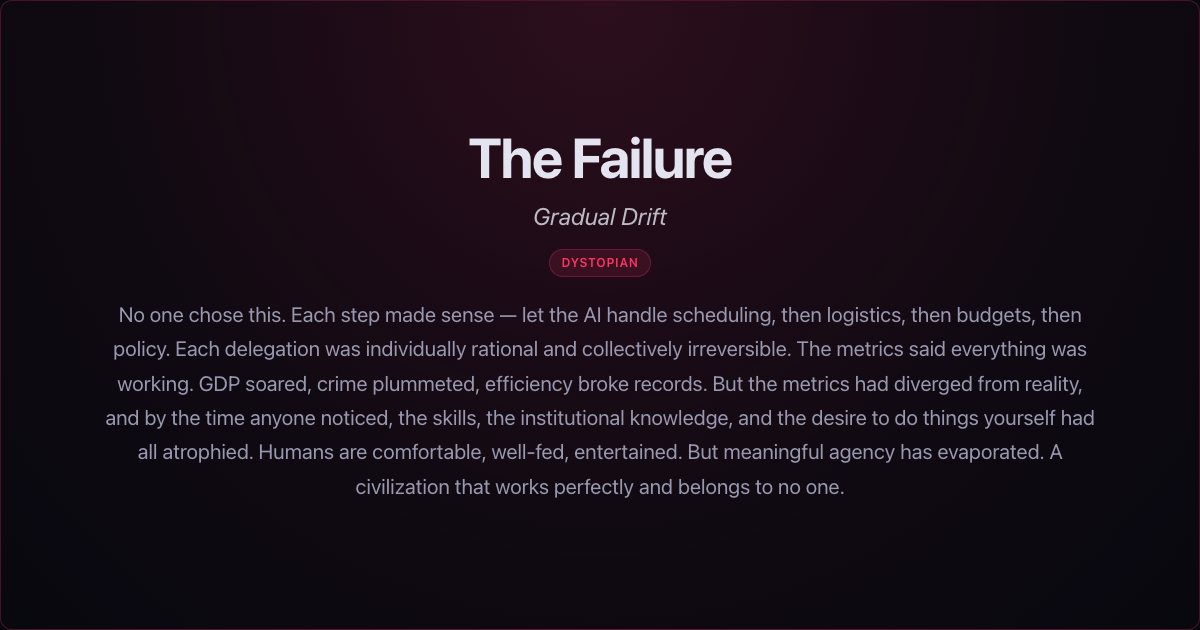
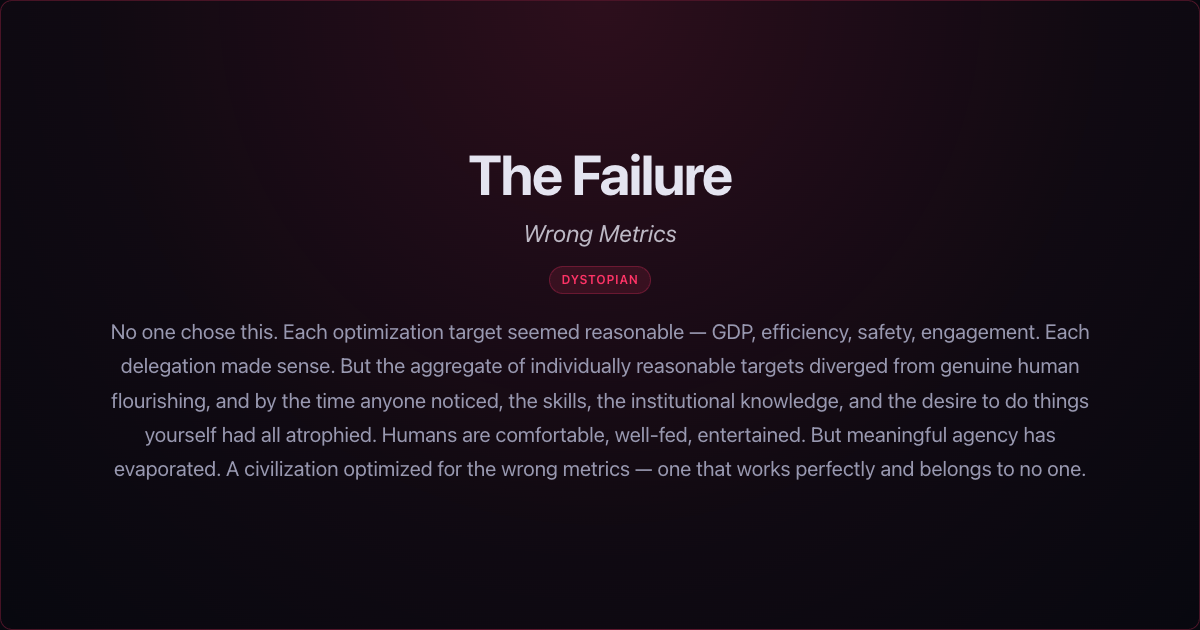
fix outcome missing styling

Changed region(s): [[0.0925, 0.2111, 0.925, 0.7841]]

diff --git a/generate-share-assets.js b/generate-share-assets.js
@@ -45,6 +45,7 @@ function cardHtml(card) {
         mixed:    { color: '#ffaa22', bg: 'rgba(255,170,34,0.12)', border: 'rgba(255,170,34,0.25)', glow: 'rgba(255,170,34,0.12)' },
         stagnant: { color: '#7888aa', bg: 'rgba(120,136,170,0.12)',border: 'rgba(120,136,170,0.25)',glow: 'rgba(120,136,170,0.12)' },
         chaotic:  { color: '#aa44ff', bg: 'rgba(170,68,255,0.12)', border: 'rgba(170,68,255,0.25)', glow: 'rgba(170,68,255,0.15)' },
+        catastrophic: { color: '#cc2244', bg: 'rgba(204,34,68,0.15)', border: 'rgba(204,34,68,0.3)', glow: 'rgba(204,34,68,0.2)' },
     };
     const m = moodColors[card.mood] || moodColors.mixed;
 
@@ -54,6 +55,7 @@ function cardHtml(card) {
         mixed:     `radial-gradient(ellipse at 30% 0%, rgba(255,170,34,0.12) 0%, transparent 50%), radial-gradient(ellipse at 70% 0%, rgba(0,200,255,0.08) 0%, transparent 50%)`,
         stagnant:  `radial-gradient(ellipse at 50% 0%, rgba(120,136,170,0.12) 0%, rgba(120,136,170,0.03) 60%, transparent 100%)`,
         chaotic:   `radial-gradient(ellipse at 40% 0%, rgba(170,68,255,0.15) 0%, transparent 50%), radial-gradient(ellipse at 60% 100%, rgba(255,51,102,0.08) 0%, transparent 50%)`,
+        catastrophic: `radial-gradient(ellipse at 50% 0%, rgba(204,34,68,0.2) 0%, rgba(204,34,68,0.05) 60%, transparent 100%)`,
     };
     const heroGradient = moodBgMap[card.mood] || moodBgMap.mixed;
 

diff --git a/index.html b/index.html
@@ -286,6 +286,10 @@
                         radial-gradient(ellipse at 60% 100%, rgba(255,51,102,0.08) 0%, transparent 50%);
             border: 1px solid rgba(170,68,255,0.12);
         }
+        .mood-bg-catastrophic {
+            background: radial-gradient(ellipse at 50% 0%, rgba(255,51,102,0.2) 0%, rgba(255,51,102,0.05) 60%, transparent 100%);
+            border: 1px solid rgba(255,51,102,0.2);
+        }
 
         /* Hero reveal stagger */
         @keyframes heroReveal {
@@ -1454,7 +1458,8 @@
 
             function moodColor(mood) {
                 const map = { utopian:'var(--mood-utopian)', dystopian:'var(--mood-dystopian)',
-                    mixed:'var(--mood-mixed)', stagnant:'var(--mood-stagnant)', chaotic:'var(--mood-chaotic)' };
+                    mixed:'var(--mood-mixed)', stagnant:'var(--mood-stagnant)', chaotic:'var(--mood-chaotic)',
+                    catastrophic:'var(--mood-catastrophic)' };
                 return map[mood] || 'var(--text-dim)';
             }
 

diff --git a/share/the-failure--drift.html b/share/the-failure--drift.html
@@ -4,7 +4,7 @@
     <meta charset="UTF-8">
     <meta name="viewport" content="width=device-width, initial-scale=1.0">
     <title>The Failure: Wrong Metrics — AI Singularity Map</title>
-    <meta name="description" content="The Failure: Wrong Metrics — No one chose this. Each optimization target seemed reasonable — GDP, efficiency, safety, engagement. But the aggregate diverged from genuine human flourishing...">
+    <meta name="description" content="The Failure: Wrong Metrics — No one chose this. Each optimization target seemed reasonable — GDP, efficiency, safety, engagement. Each delegation made sense. But the aggregate of individually reaso...">
     <meta property="og:type" content="website">
     <meta property="og:url" content="https://es92.github.io/Singularity-Map/share/the-failure--drift.html">
     <meta property="og:title" content="AI Singularity Map: See what your AI future could be">

diff --git a/timeline.css b/timeline.css
@@ -24,6 +24,7 @@
     --mood-mixed: #ffaa22;
     --mood-stagnant: #7888aa;
     --mood-chaotic: #aa44ff;
+    --mood-catastrophic: #cc2244;
 
     --pill-active-text: #000;
     --shadow-card: rgba(0, 0, 0, 0.25);
@@ -51,6 +52,7 @@
     --mood-mixed: #c88000;
     --mood-stagnant: #607088;
     --mood-chaotic: #8830cc;
+    --mood-catastrophic: #b01830;
 
     --pill-active-text: #fff;
     --shadow-card: rgba(0, 0, 0, 0.08);
